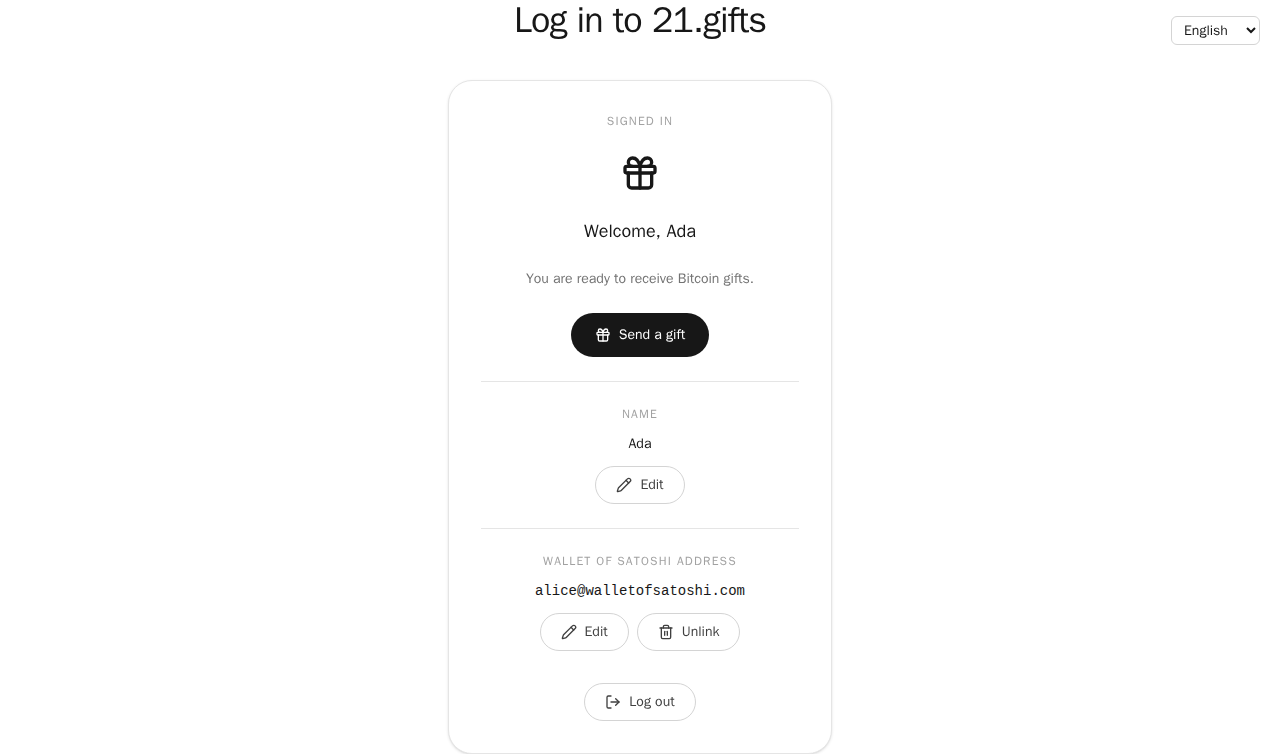
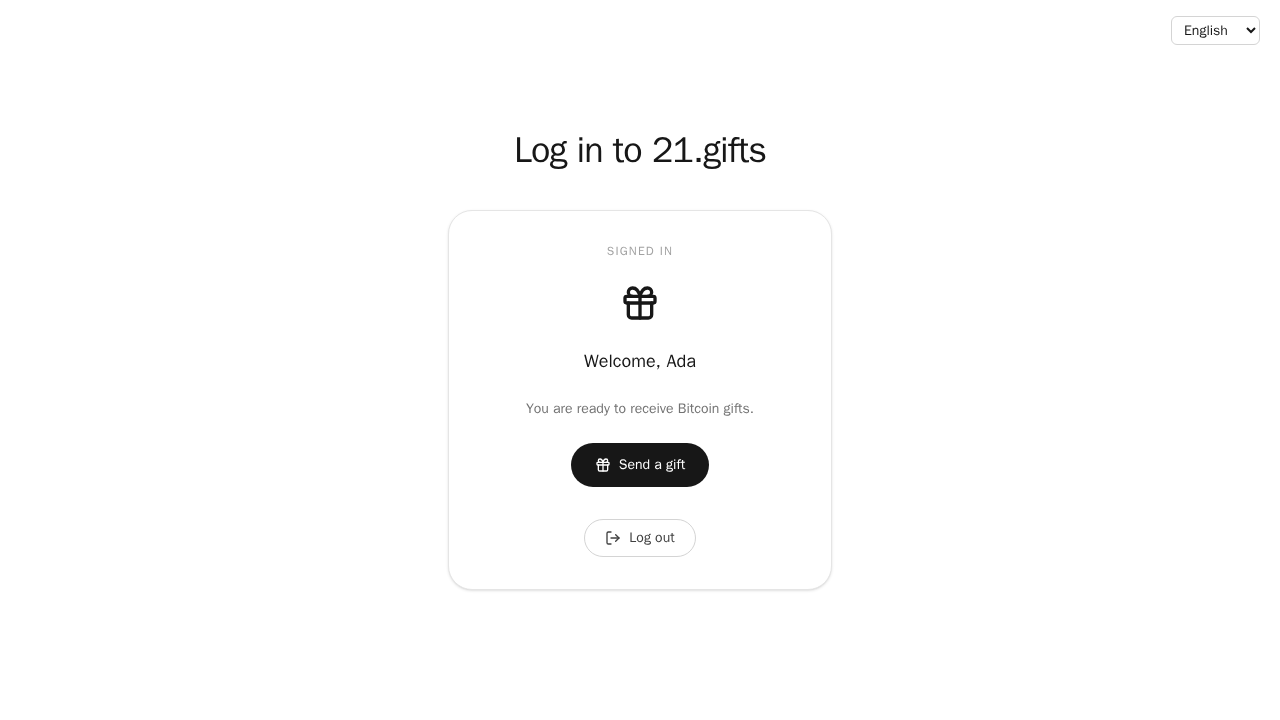
Show a welcome-only screen after name and address are saved

diff --git a/e2e/functions.spec.ts b/e2e/functions.spec.ts
@@ -315,7 +315,7 @@ test('Function: setLightningAddress — signed-in form links a Wallet of Satoshi
   await saveOnboardingName(page);
   await page.getByLabel('Wallet of Satoshi address').fill('alice@walletofsatoshi.com');
   await page.getByRole('button', { name: 'Link address' }).click();
-  await expect(page.getByText('alice@walletofsatoshi.com')).toBeVisible();
+  await expect(page.getByRole('heading', { name: 'Welcome, Ada' })).toBeVisible();
 });
 
 test('Function: DELETE — DELETE /me/lightning-address clears the address', async ({ request }) => {
@@ -345,16 +345,18 @@ test('Function: proxyMeLightningAddressDelete — DELETE clears the address', as
 });
 
 test('Function: unlinkLightningAddress — signed-in form unlinks the address', async ({
-  page,
   request,
 }) => {
-  await signInViaStub(page, request);
-  await saveOnboardingName(page);
-  await page.getByLabel('Wallet of Satoshi address').fill('alice@walletofsatoshi.com');
-  await page.getByRole('button', { name: 'Link address' }).click();
-  await expect(page.getByRole('button', { name: 'Unlink' })).toBeVisible();
-  await page.getByRole('button', { name: 'Unlink' }).click();
-  await expect(page.getByRole('button', { name: 'Link address' })).toBeVisible();
+  const token = await loginHttp(request);
+  await request.post('/me/lightning-address', {
+    headers: { authorization: `Bearer ${token}` },
+    data: { address: 'alice@walletofsatoshi.com' },
+  });
+  const res = await request.delete('/me/lightning-address', {
+    headers: { authorization: `Bearer ${token}` },
+  });
+  expect(res.status()).toBe(200);
+  expect(((await res.json()) as { lightningAddress: string | null }).lightningAddress).toBeNull();
 });
 
 test('Function: proxyLightningAddressGet — GET resolves a Wallet of Satoshi address', async ({
@@ -559,9 +561,8 @@ test('Function: LightningAddressForm — link and unlink a Wallet of Satoshi add
   await saveOnboardingName(page);
   await page.getByLabel('Wallet of Satoshi address').fill('alice@walletofsatoshi.com');
   await page.getByRole('button', { name: 'Link address' }).click();
-  await expect(page.getByText('alice@walletofsatoshi.com')).toBeVisible();
-  await page.getByRole('button', { name: 'Unlink' }).click();
-  await expect(page.getByRole('button', { name: 'Link address' })).toBeVisible();
+  await expect(page.getByRole('heading', { name: 'Welcome, Ada' })).toBeVisible();
+  await expect(page.getByRole('button', { name: 'Unlink' })).toHaveCount(0);
 });
 
 test('Function: clearSession — log out returns to the start action', async ({ page, request }) => {

diff --git a/e2e/login.spec.ts b/e2e/login.spec.ts
@@ -138,18 +138,10 @@ test('signed-in session hydrates, then links and unlinks a Wallet of Satoshi add
   await page.getByRole('button', { name: 'Link address' }).click();
 
   await expect(page.getByRole('heading', { name: 'Welcome, Ada' })).toBeVisible();
-  await expect(page.getByText('alice@walletofsatoshi.com')).toBeVisible();
-  await expect(page.getByRole('button', { name: 'Edit' })).toHaveCount(2);
-  await expect(page.getByRole('button', { name: 'Unlink' })).toBeVisible();
+  await expect(page.getByRole('link', { name: 'Send a gift' })).toBeVisible();
+  await expect(page.getByRole('button', { name: 'Unlink' })).toHaveCount(0);
+  await expect(page.getByRole('button', { name: 'Edit' })).toHaveCount(0);
   await expect(page.getByRole('button', { name: /verify/i })).toHaveCount(0);
-  await expect(page.getByText(/not yet verified/i)).toHaveCount(0);
-  await expect(page.getByText('Verified')).toHaveCount(0);
-
-  await page.getByRole('button', { name: 'Unlink' }).click();
-  await expect(page.getByRole('button', { name: 'Link address' })).toBeVisible();
-  await expect(page.getByText('Ada')).toBeVisible();
-  await expect(page.getByRole('heading', { name: 'Welcome, Ada' })).toHaveCount(0);
-  await expect(page.getByText(/Add your name so people know who you are/i)).toHaveCount(0);
 
   await page.getByRole('button', { name: 'Log out' }).click();
   await expect(page.getByRole('button', { name: 'Log in' })).toBeVisible();

diff --git a/src/__tests__/components/LoginCard.test.tsx b/src/__tests__/components/LoginCard.test.tsx
@@ -136,7 +136,9 @@ describe('LoginCard', () => {
     renderWithLocale(<LoginCard />);
     expect(screen.getByRole('heading', { name: 'Welcome, Ada' })).toBeTruthy();
     expect(screen.getByRole('link', { name: /send a gift/i }).getAttribute('href')).toBe('/donate');
-    expect(screen.getByRole('button', { name: /unlink/i })).toBeTruthy();
+    expect(screen.queryByRole('button', { name: /unlink/i })).toBeNull();
+    expect(screen.queryByRole('button', { name: /save name/i })).toBeNull();
+    expect(screen.queryByRole('button', { name: /edit/i })).toBeNull();
   });
 
   it('shows the signed-in view and logs out', () => {

diff --git a/e2e/visual.spec.ts b/e2e/visual.spec.ts
@@ -326,7 +326,8 @@ test.describe('function baselines', () => {
       });
     });
     await page.goto('/login');
-    await expect(page.getByRole('button', { name: 'Unlink' })).toBeVisible();
+    await expect(page.getByRole('heading', { name: 'Welcome, Ada' })).toBeVisible();
+    await expect(page.getByRole('button', { name: 'Unlink' })).toHaveCount(0);
     await expect(page).toHaveScreenshot('state-login-signed-in-linked.png', {
       fullPage: true,
       ...SHOT,

diff --git a/src/components/LoginCard.tsx b/src/components/LoginCard.tsx
@@ -147,13 +147,7 @@ function LoggedInView({ account, onLogout }: LoggedInViewProps): ReactElement {
       </>
     );
   } else {
-    step = (
-      <>
-        <WelcomeView name={displayName} />
-        <NameForm />
-        <LightningAddressForm />
-      </>
-    );
+    step = <WelcomeView name={displayName} />;
   }
 
   return (

diff --git a/docs/handbook/screens.md b/docs/handbook/screens.md
@@ -105,7 +105,7 @@ Fetch failed. Copy **Could not load gift stats. Please try again.** and **Try ag
 
 - **URL:** `/login` — login only.
 - **What the user sees:** Light language switcher top-right on the page (not the marketing header). Idle **Log in**, then signed-in steps: name, Wallet of Satoshi address, welcome. Error is terminal until **Try again**.
-- **Actions:** Change language. Log in (existing login, or create one when the browser has none). When signed in, add a name if missing, then a Wallet of Satoshi address if missing; then a welcome with **Send a gift**. Edit or unlink from welcome. Log out. No client redirect to `/`.
+- **Actions:** Change language. Log in (existing login, or create one when the browser has none). When signed in, add a name if missing, then a Wallet of Satoshi address if missing; then a welcome with **Send a gift**. Log out. No client redirect to `/`.
 - **Calls:** `LoginCard`, `NameForm`, `LightningAddressForm`, `usePasskeyLogin`, `useAuthStore`, `LanguageSwitcher`.
 
 ### Variant: idle
@@ -140,7 +140,7 @@ Signed in with a display name set and no address yet. Greeting **Hi, Ada** and t
 
 ### Variant: signed-in-linked
 
-Signed in with a name and a Wallet of Satoshi address. Welcome **Welcome, Ada**, gift icon, **Send a gift**, then the name and address forms (**Edit** / **Unlink**).
+Signed in with a name and a Wallet of Satoshi address. Welcome only: gift icon, **Welcome, Ada**, **You are ready to receive Bitcoin gifts.**, **Send a gift**. No name or address form.
 
 ![21.gifts login signed in linked](images/login-signed-in-linked.png)
 

diff --git a/docs/handbook/functions.md b/docs/handbook/functions.md
@@ -150,7 +150,7 @@
 
 ## Function: LoginCard
 
-- **Purpose:** Login UI: one **Log in** button (existing login, or create when the browser has none), then signed-in steps: `NameForm` if no name, `LightningAddressForm` if no address, then a welcome with a gift icon and **Send a gift**. Visitor-facing copy via `useTranslations`.
+- **Purpose:** Login UI: one **Log in** button (existing login, or create when the browser has none), then signed-in steps: `NameForm` if no name, `LightningAddressForm` if no address, then a welcome with a gift icon and **Send a gift** (no name or address form on that step). Visitor-facing copy via `useTranslations`.
 - **Inputs:** Uses `usePasskeyLogin` and `useAuthStore`. Rehydrates via `loadSession` + `fetchMe` without overwriting a newer in-page session or restoring after logout. A rejected token calls `clearAuth` when the in-memory session is absent or still that token. Successful hydration cancels an in-flight login ceremony. Logout cancels an in-flight login ceremony. Unmount invalidates in-flight hydration.
 - **Returns / side effects:** React element covering idle/starting/error/signed-in. Does not navigate away from `/login`.
 - **Used by:** Screen `/login`.
